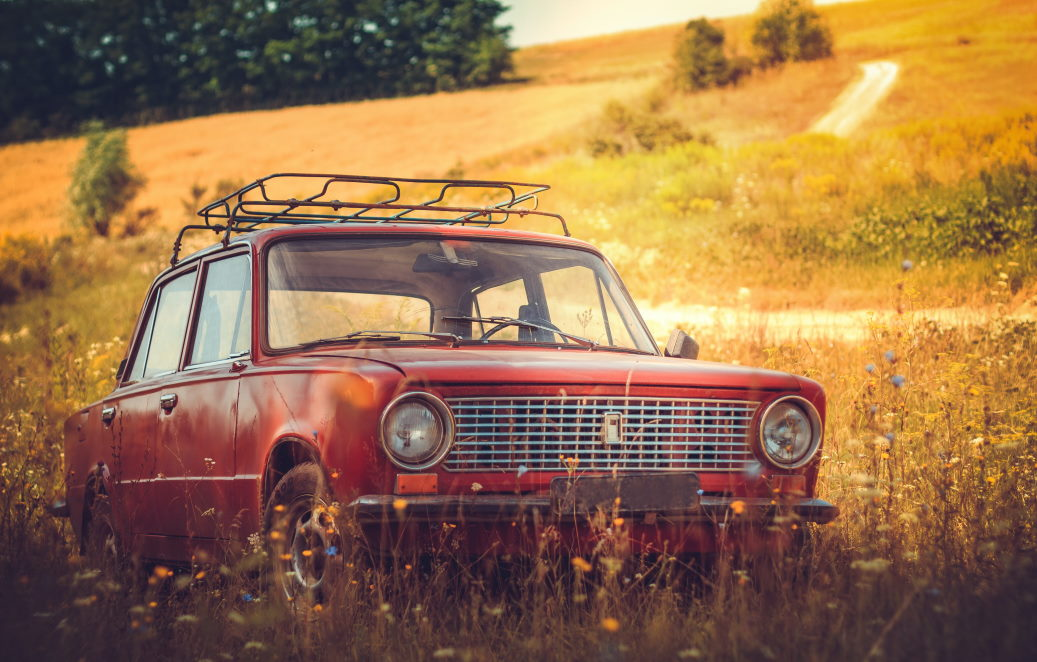
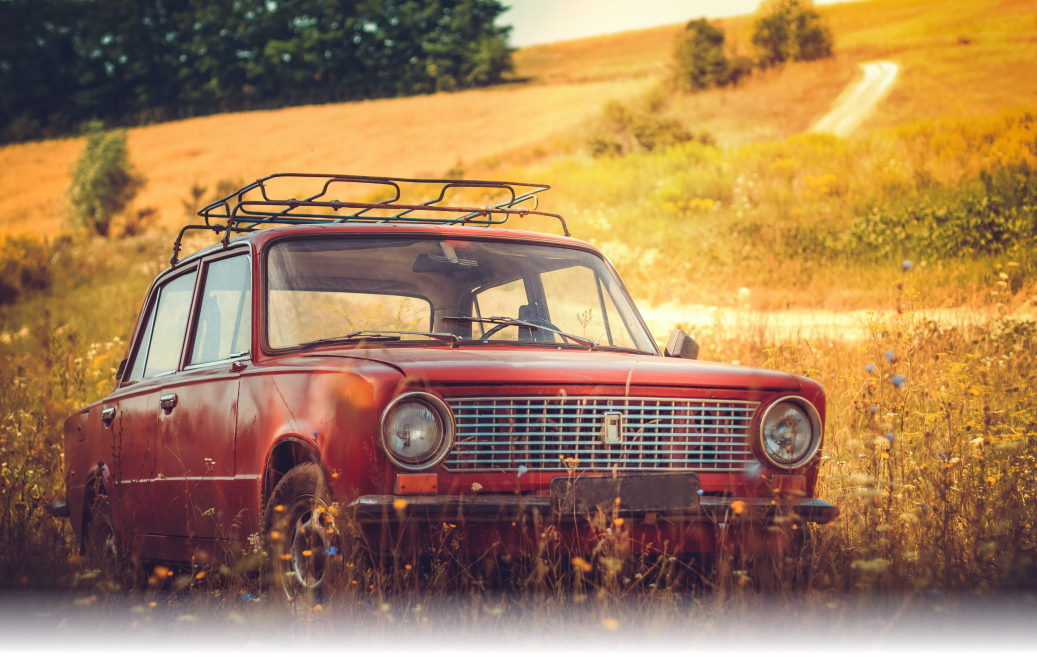
now it looks nice

Changed region(s): [[0.0, 0.8761, 1.0, 1.0]]

diff --git a/app/assets/stylesheets/components/_footer.scss b/app/assets/stylesheets/components/_footer.scss
@@ -3,11 +3,7 @@ body, html {
   }
   
   .bgfoot {
-    background-image: url("footer_background.png");
-    height: 100%;
-    background-position: center;
-    background-repeat: no-repeat;
-    background-size: cover;
+    background-color: white;
   }
 
   .copy{
@@ -22,5 +18,7 @@ body, html {
     font-size: 1.3em;
     text-align: center;
     color: black;
+    background-color:#F7F7F7;
+    border-radius: 30px;
 
   }
